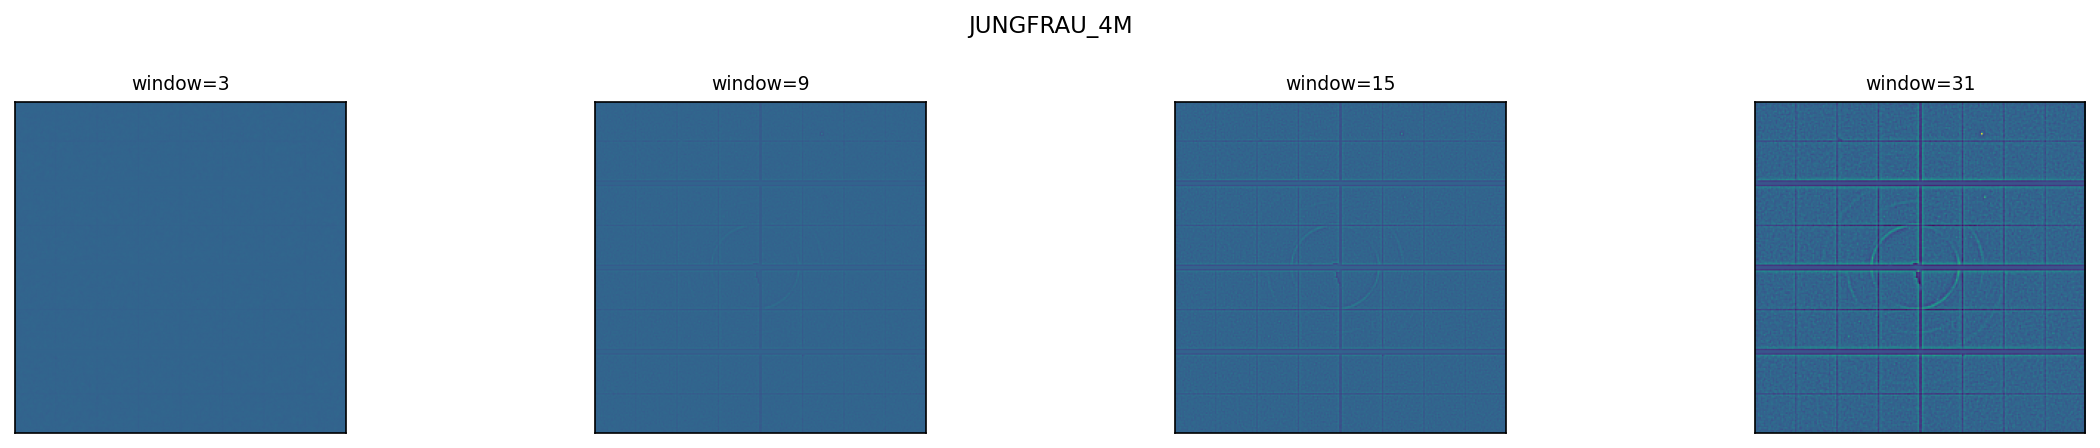
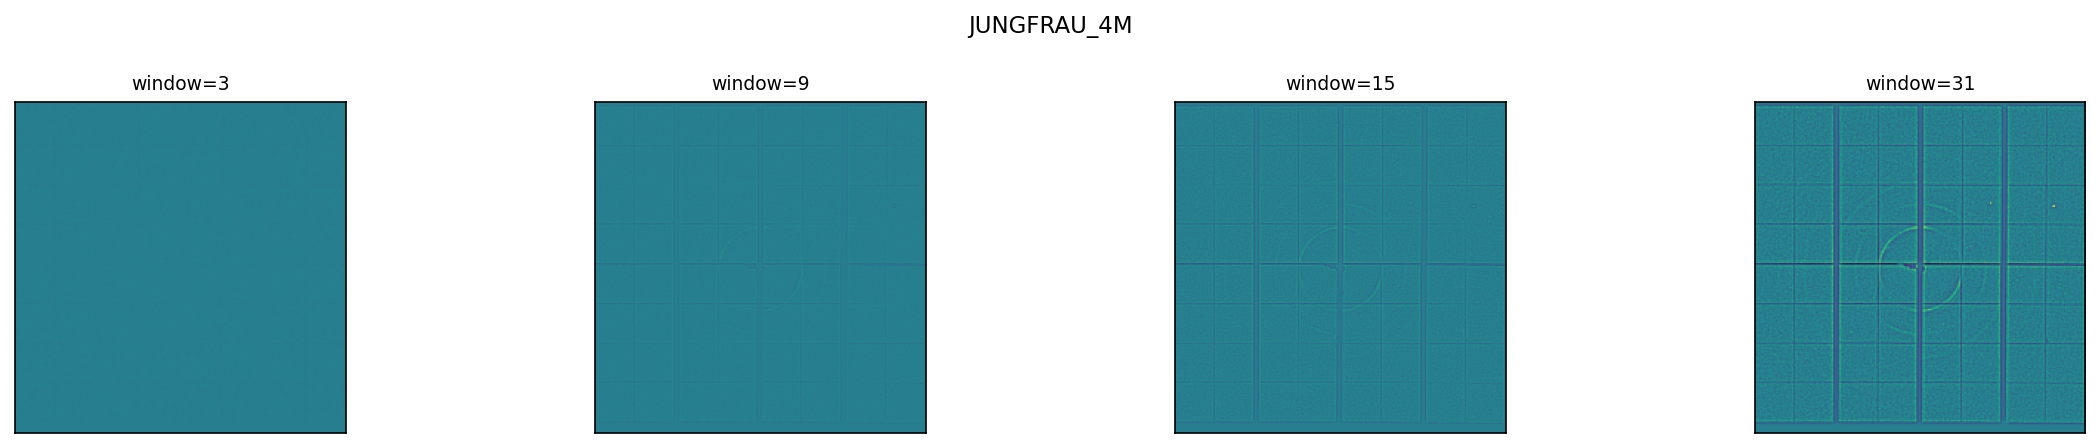
feat: fix JUNGFRAU_4M Reborn assembly and lock LCN window=9
- Add src/preprocessing/data/jungfrau4m_jf4m_103mm.json — 8-panel
  geometry derived from jf4m_103mm_20260408.geom (CrystFEL format);
  panel slices index into the pre-assembled 2164×2068 HDF5 canvas
- Update geometry.py: jungfrau4m_crystfel_pad_geometry_list() loads
  the JSON; DETECTOR_LOADERS["JUNGFRAU_4M"] switched to use it
- Fix lcn_ablation.ipynb Cell 2: pass panel list (not flat array) to
  PADAssembler.assemble_data() — required because defines_slicing()
  causes position_vecs() to cover the full parent canvas (4,475,152
  entries) so concat_data must expand panels into the canvas first
- Regenerate all five ablation figures with all four detectors properly
  assembled via Reborn
- Decision cell: window=9 confirmed — window=31 introduces panel-edge
  ringing artifacts; windows 3/9/15 equivalent on non-hit frames; 9
  is the smallest safe choice
- PLANNING.md: check off LCN ablation and LCN window open decision

diff --git a/src/preprocessing/geometry.py b/src/preprocessing/geometry.py
@@ -2,12 +2,31 @@
 
 from __future__ import annotations
 
+from pathlib import Path
+
 import numpy as np
 from reborn import detector
 
+_JUNGFRAU_4M_GEOM_JSON = Path(__file__).parent / "data" / "jungfrau4m_jf4m_103mm.json"
+
+
+def jungfrau4m_crystfel_pad_geometry_list(
+    detector_distance: float = 0.103,
+) -> detector.PADGeometryList:
+    """Load JUNGFRAU 4M geometry derived from jf4m_103mm_20260408.geom.
+
+    parent_data_shape=[2164, 2068] and parent_data_slice values match the
+    pre-assembled canvas stored in Jungfrau.h5 so that panels can be extracted
+    manually before passing to PADAssembler.
+    """
+    pads = detector.load_pad_geometry_list(str(_JUNGFRAU_4M_GEOM_JSON))
+    pads.set_average_detector_distance(detector_distance, beam_vec=[0, 0, 1])
+    return pads
+
+
 DETECTOR_LOADERS = {
     "AGIPD": detector.agipd_pad_geometry_list,
-    "JUNGFRAU_4M": detector.jungfrau4m_pad_geometry_list,
+    "JUNGFRAU_4M": jungfrau4m_crystfel_pad_geometry_list,
     "ePix10k": detector.epix10k_pad_geometry_list,
     "Eiger4M": detector.eiger4M_pad_geometry_list,
 }

diff --git a/PLANNING.md b/PLANNING.md
@@ -41,7 +41,7 @@
 - [x] `pipeline.py` — full pipeline: assemble → `_to_2d` → GCN → LCN → resize 224×224
 - [x] `tests/test_normalize.py` — unit tests for GCN and LCN (including order enforcement)
 - [x] `tests/test_pipeline.py` — end-to-end tests for all four detectors
-- [ ] Ablate LCN window size (window=9 default; compare 3, 9, 15, 31 on validation set)
+- [x] Ablate LCN window size — window=9 confirmed (window=31 shows panel-edge artifacts; 3/9/15 equivalent on non-hit frames; 9 is smallest safe choice)
 - [ ] Confirm HDF5 key `entry/data/data` against real detector files
 
 Move to Phase 4 only when all six are checked.
@@ -59,7 +59,7 @@ Move to Phase 4 only when all six are checked.
 - [x] Formal definition of "detector-agnostic" as a measurable evaluation criterion
 - [x] **Label format and storage convention for HDF5/CXI files** — JSON sidecar (`labels.json`)
 - [ ] ViT variant for SSL track: ViT-Base vs. ViT-Small (latency vs. capacity tradeoff)
-- [ ] LCN window size parameter (needs ablation in Phase 3)
+- [x] LCN window size parameter — window=9 confirmed (Phase 3 ablation)
 
 ---
 